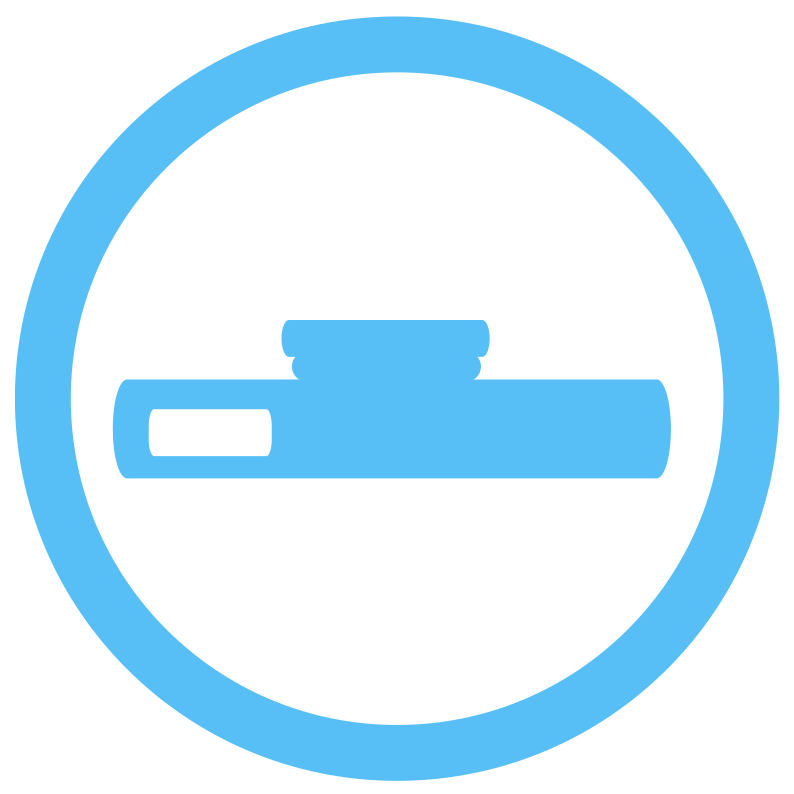
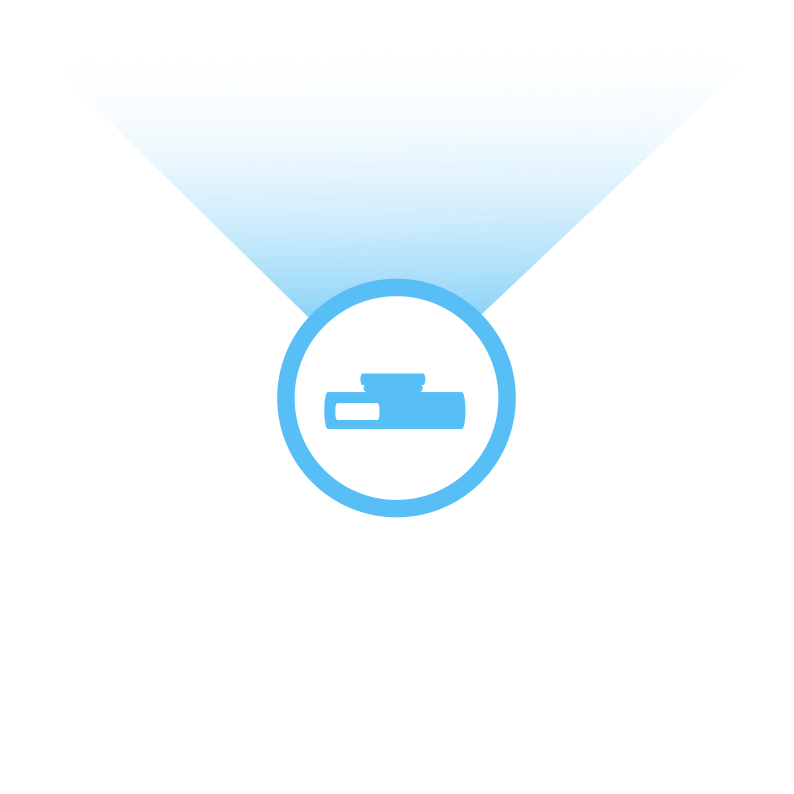
Marqueur Panoramax avec orientation

diff --git a/app/effects/useDrawPanoramaxPosition.ts b/app/effects/useDrawPanoramaxPosition.ts
@@ -32,7 +32,7 @@ export default function useDrawPanoramaxPosition(map, position) {
 				source: 'panoramax-marker',
 				layout: {
 					'icon-image': 'panoramax-marker',
-					'icon-size': 0.05,
+					'icon-size': 0.15,
 				},
 			})
 		}
